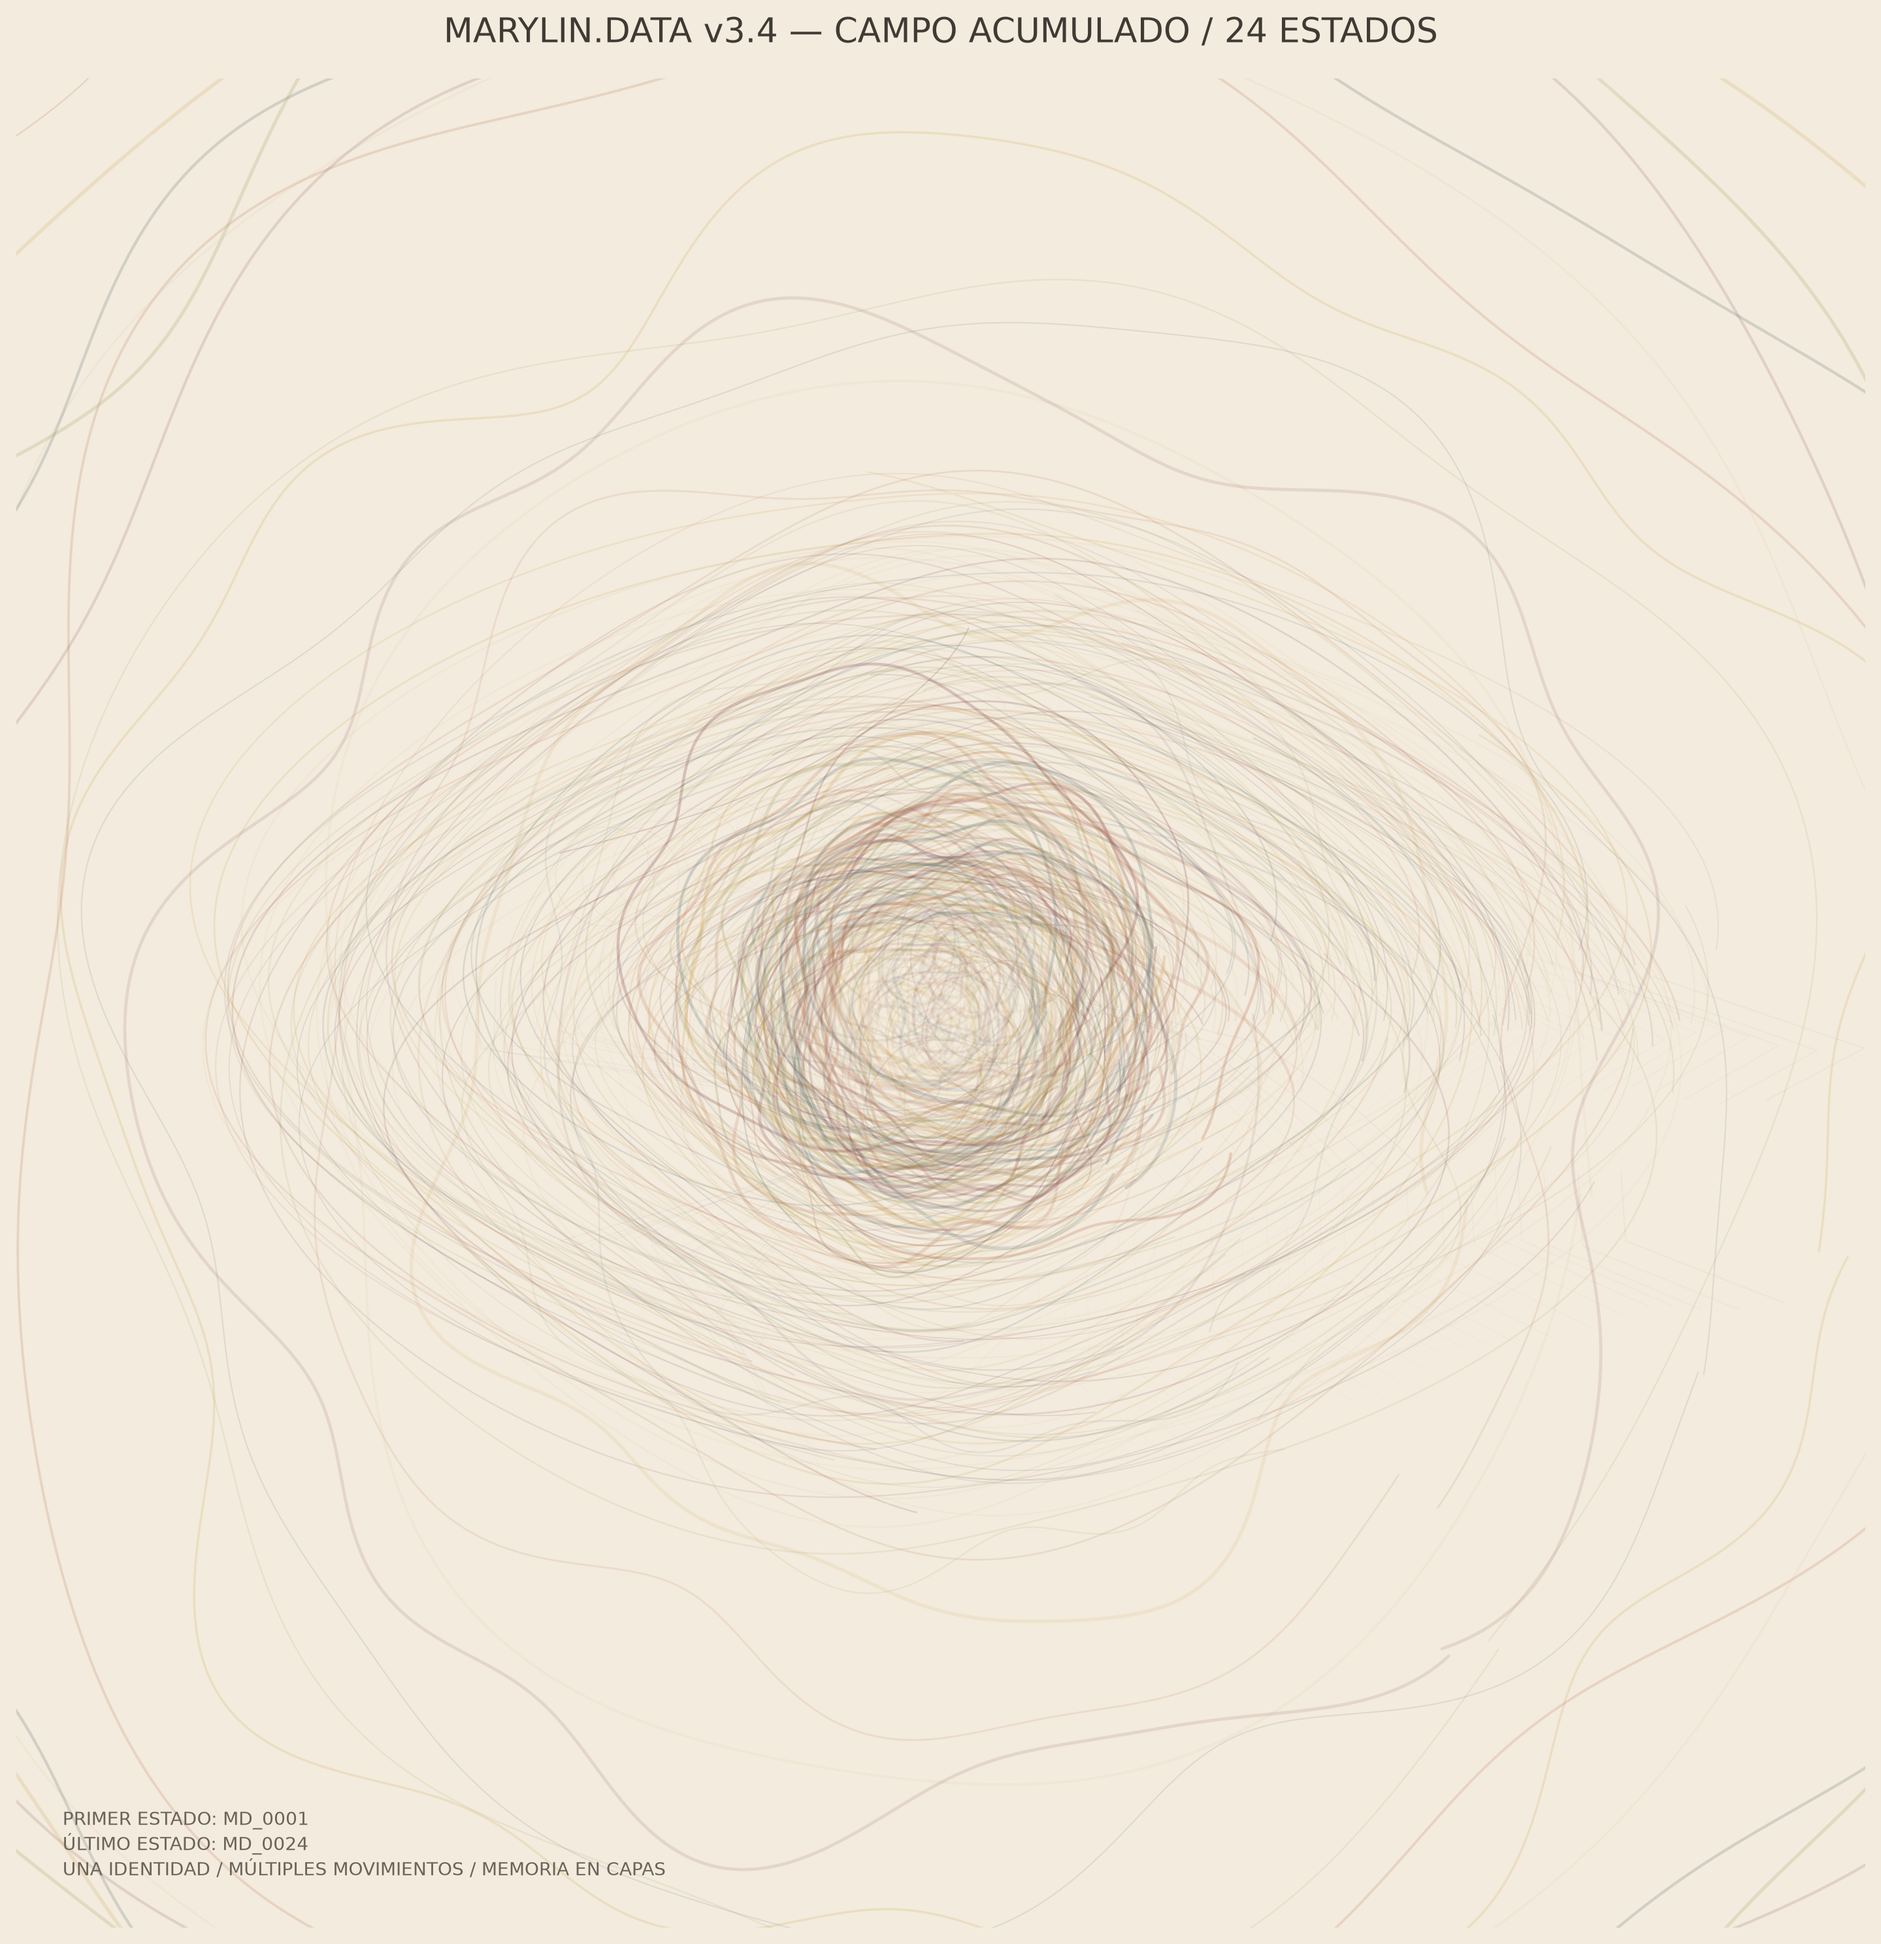
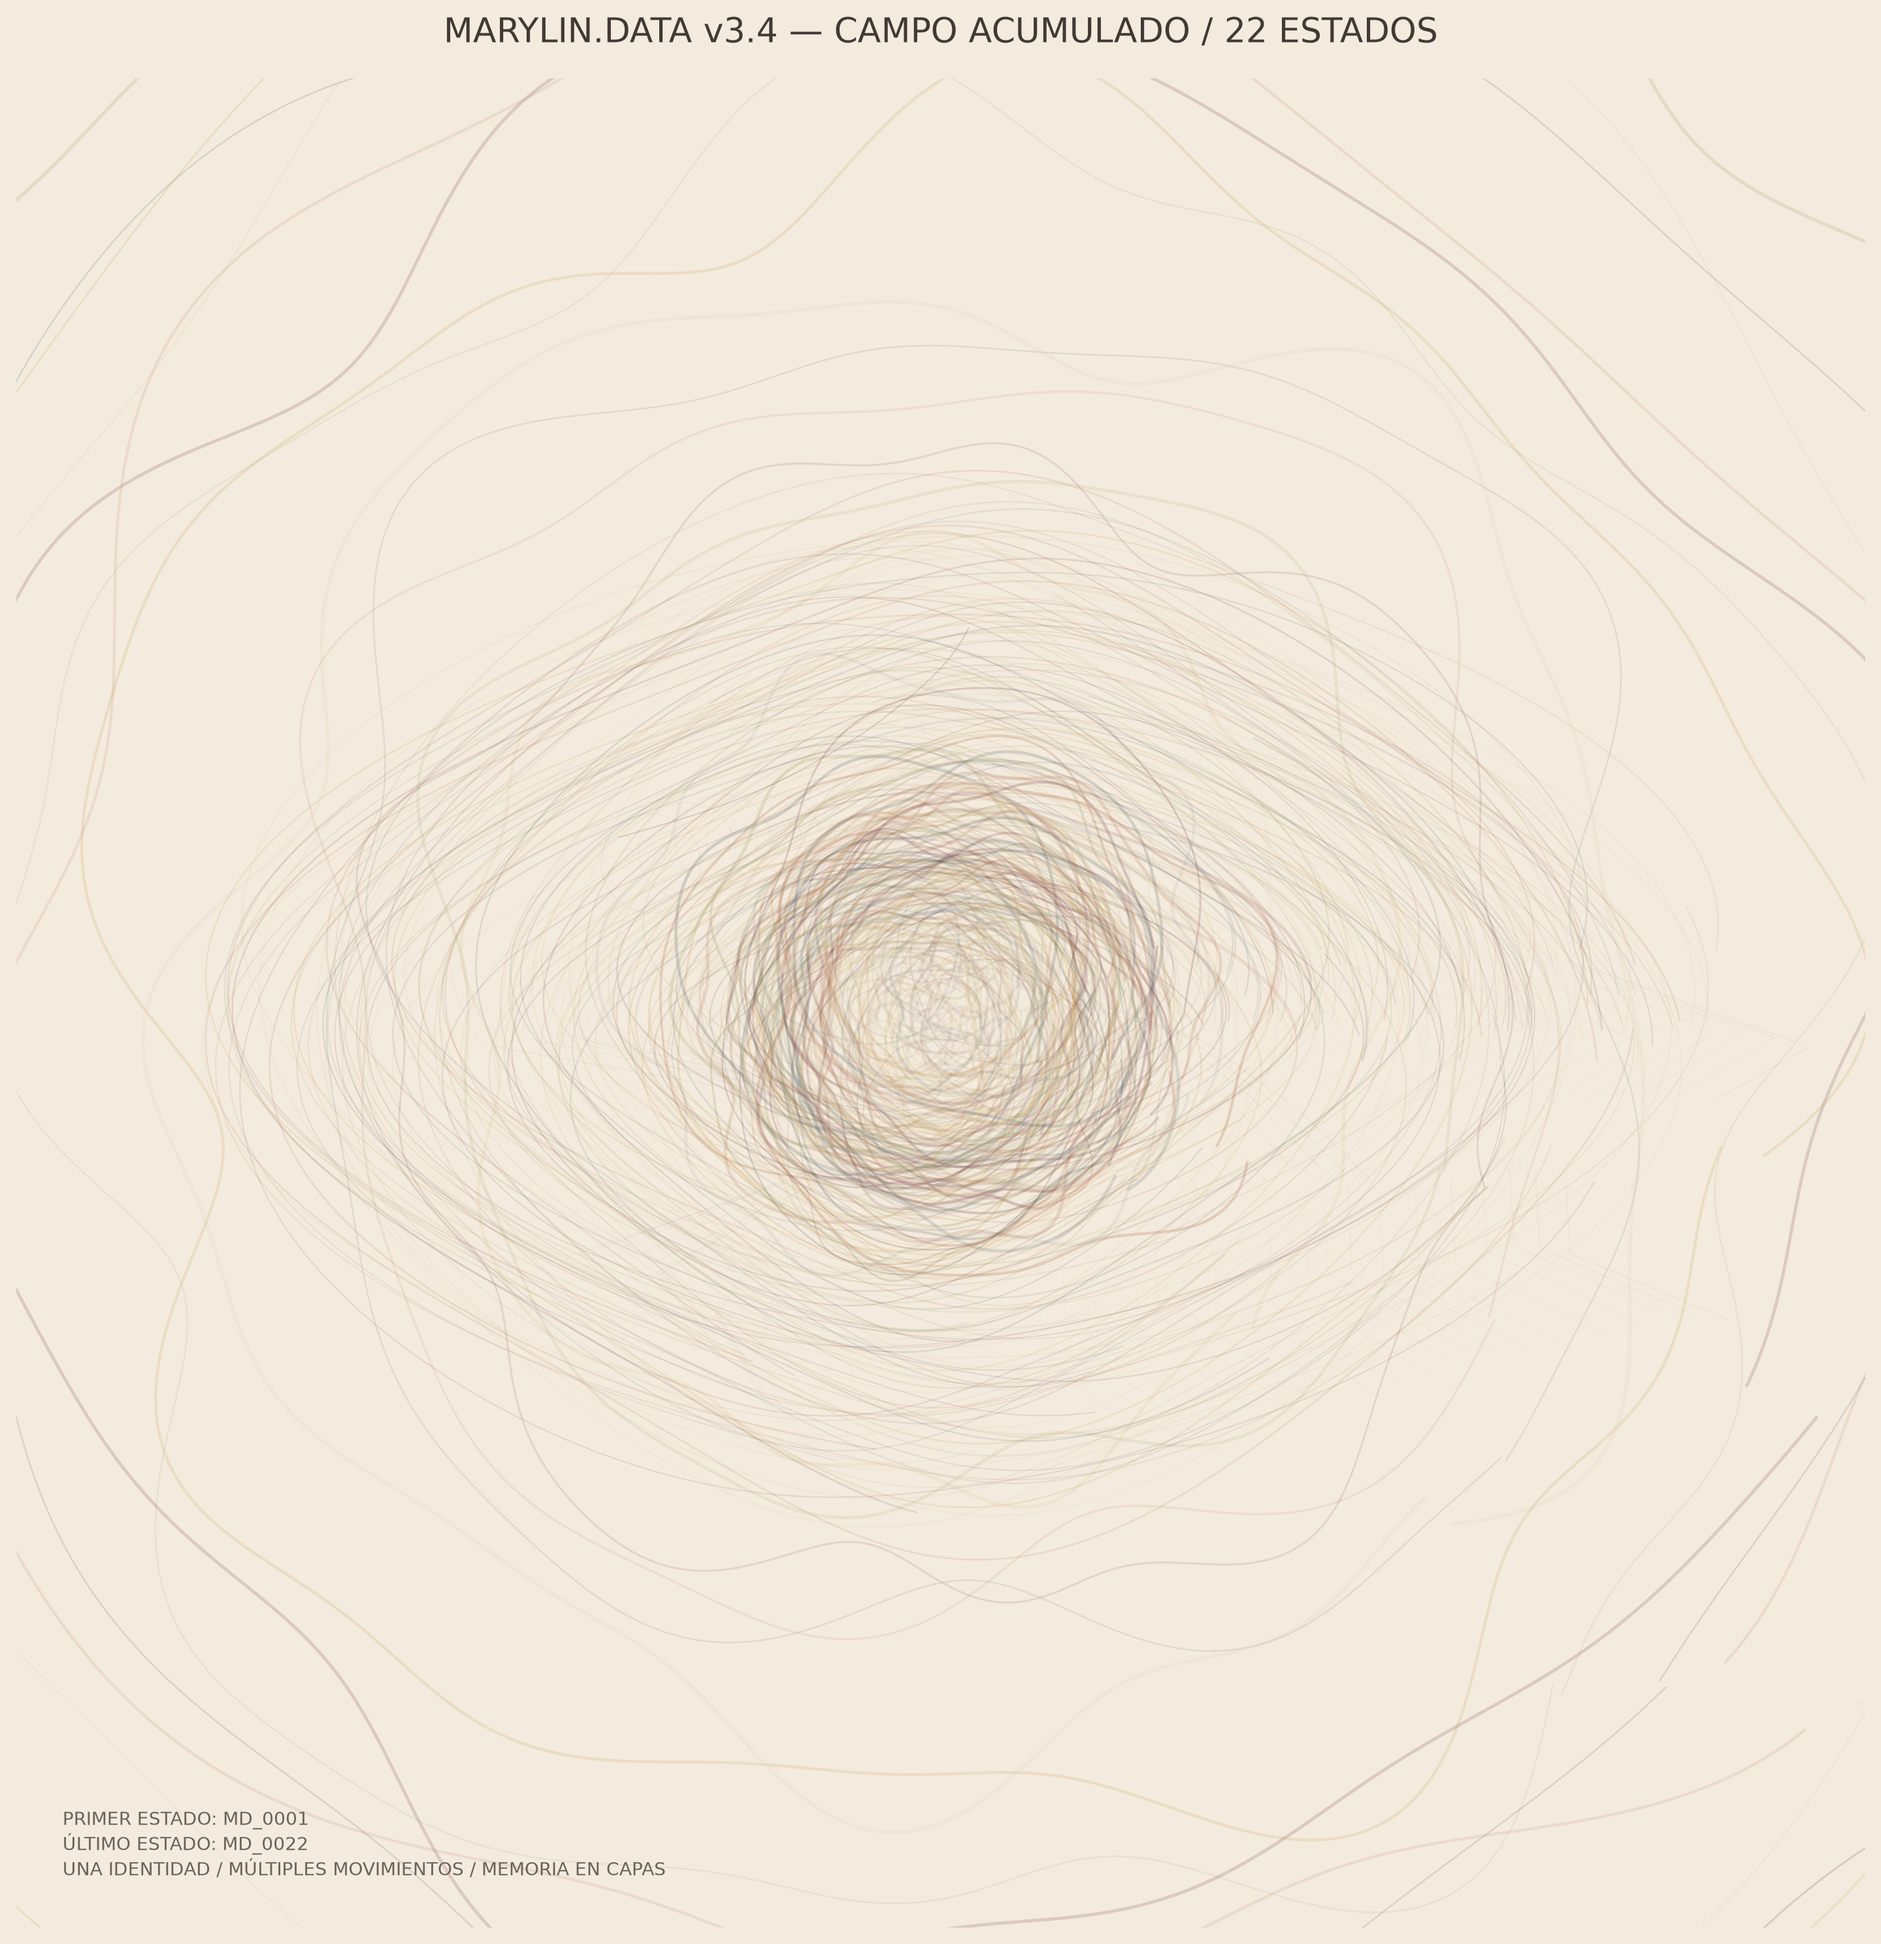
Add files via upload

diff --git a/404.html b/404.html
@@ -1,0 +1,1 @@
+<!doctype html><html lang="es"><head><meta charset="utf-8"><meta name="viewport" content="width=device-width,initial-scale=1"><title>MARYLIN.DATA</title><style>body{margin:0;background:#ece9e1;color:#111;font-family:Arial,sans-serif;display:grid;place-items:center;min-height:100vh}.box{max-width:520px;padding:40px}h1{font-size:64px;line-height:.9;margin:0 0 20px}a{color:#111}</style></head><body><div class="box"><p>MARYLIN.DATA</p><h1>Estado no encontrado.</h1><p>El archivo continúa. Este estado no está publicado en esta interfaz.</p><a href="./">Volver al sistema →</a></div></body></html>
